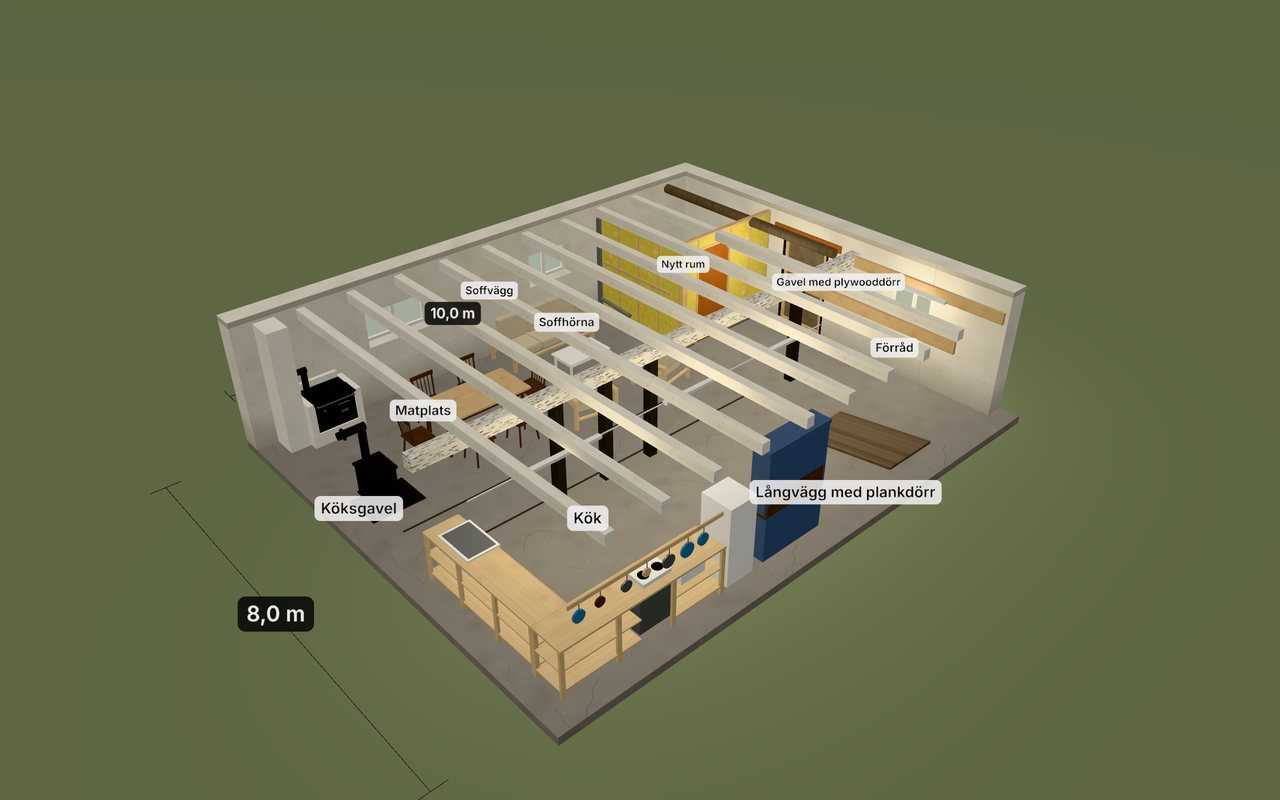
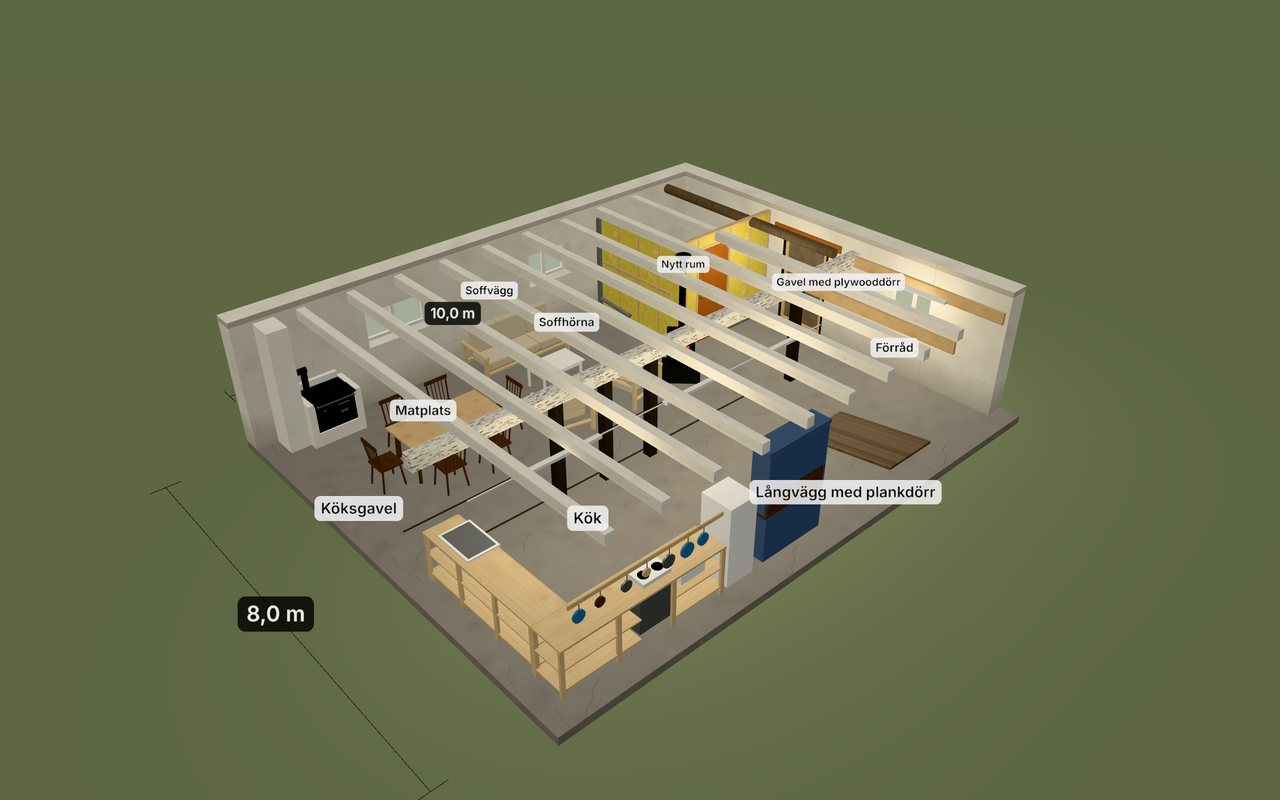
Flytta braskaminen till nya rummets ytterhörn
Kaminen står på diagonalen ut från hörnet, vänd mot rummet, med
rökröret rakt upp genom taket. Matgruppen står åter närmare köksgaveln
och soffgruppen är flyttad så att fåtöljerna går fria från kaminen.

Claude-Session: https://claude.ai/code/session_01Pv6CpKizXL3M9PiPypFNnz

Changed region(s): [[0.25, 0.4062, 0.4688, 0.6562], [0.4688, 0.4375, 0.5625, 0.5], [0.4375, 0.5, 0.4688, 0.5312]]

diff --git a/stallet/src/furniture.ts b/stallet/src/furniture.ts
@@ -249,7 +249,7 @@ function buildKitchen(m: Materials): THREE.Group {
 
 /* ------------------------------------------------------------- braskamin */
 
-/** Braskamin i gjutjärn på ben, med glasad lucka och rökrör bakåt ut genom väggen. */
+/** Braskamin i gjutjärn på ben, med glasad lucka och rökrör. */
 function buildStove(m: Materials): THREE.Group {
   const g = new THREE.Group();
   const iron = m.castIron;
@@ -276,12 +276,19 @@ function buildStove(m: Materials): THREE.Group {
     g.add(box(sx * w - 0.006, sx * w + 0.006, 0.3, 0.66, -d + 0.05, d - 0.05, iron));
   }
 
-  // Rökrör: rakt upp och sedan bakåt in i väggen.
   const pipeZ = -d + 0.1;
-  const bend = 1.55;
-  g.add(rod(v(0, 0.775, pipeZ), v(0, bend, pipeZ), 0.065, iron));
-  g.add(rod(v(0, bend, pipeZ + 0.065), v(0, bend, -d - 0.3), 0.065, iron));
-  g.add(rod(v(0, bend, -d - 0.2), v(0, bend, -d - 0.215), 0.1, iron));
+  if (D.furniture.stove.flue === 'ceiling') {
+    // Rökrör rakt upp genom taket, med en täckplåt mot takbrädorna.
+    const ceiling = D.ceiling.boards;
+    g.add(rod(v(0, 0.775, pipeZ), v(0, ceiling, pipeZ), 0.065, iron));
+    g.add(rod(v(0, ceiling - 0.012, pipeZ), v(0, ceiling, pipeZ), 0.15, iron));
+  } else {
+    // Rökrör rakt upp och sedan bakåt in i väggen.
+    const bend = 1.55;
+    g.add(rod(v(0, 0.775, pipeZ), v(0, bend, pipeZ), 0.065, iron));
+    g.add(rod(v(0, bend, pipeZ + 0.065), v(0, bend, -d - 0.3), 0.065, iron));
+    g.add(rod(v(0, bend, -d - 0.2), v(0, bend, -d - 0.215), 0.1, iron));
+  }
   return g;
 }
 
@@ -356,7 +363,15 @@ export function buildFurniture(m: Materials): THREE.Group {
   group.add(place(buildCoffeeTable(m), f.coffeeTable));
   for (const chair of f.armchairs) group.add(place(buildSeating(0.9, 1, m), chair));
   group.add(buildKitchen(m));
-  group.add(place(buildStove(m), f.stove));
+  // Kaminen står på diagonalen ut från nya rummets ytterhörn.
+  const reach = f.stove.cornerGap / Math.SQRT2;
+  group.add(
+    place(buildStove(m), {
+      x: D.newRoom.frontX - reach,
+      z: D.newRoom.depthZ + reach,
+      turn: f.stove.turn,
+    }),
+  );
   group.add(buildCookstove(m));
   return group;
 }

diff --git a/stallet/src/dimensions.ts b/stallet/src/dimensions.ts
@@ -125,15 +125,15 @@ export const storageNook = { fromX: 8.53, fromZ: beam.z + beam.width / 2, timber
  * (0 = framsidan mot +z, 90 = mot +x, 180 = mot -z, -90 = mot -x).
  */
 export const furniture = {
-  /** Matbord med sex stolar, en bit ut från köksgaveln så att kaminen får fritt framför sig. */
-  dining: { x: 2.8, z: 2.1, tableLength: 1.8, tableWidth: 0.9 },
+  /** Matbord med sex stolar vid köksgaveln, med arbetsyta kvar framför vedspisen i hörnet. */
+  dining: { x: 2.0, z: 2.4, tableLength: 1.8, tableWidth: 0.9 },
 
   /** Soffa mot soffväggen, soffbord och två fåtöljer vända mot soffan. */
-  sofa: { x: 5.5, z: 0.55, turn: 0, width: 2.05 },
-  coffeeTable: { x: 5.5, z: 1.75 },
+  sofa: { x: 4.85, z: 0.55, turn: 0, width: 2.05 },
+  coffeeTable: { x: 4.85, z: 1.75 },
   armchairs: [
-    { x: 4.6, z: 3.0, turn: 168 },
-    { x: 6.4, z: 3.05, turn: 192 },
+    { x: 4.05, z: 3.0, turn: 168 },
+    { x: 5.65, z: 3.05, turn: 192 },
   ],
 
   /** Köket: öppen bänk i vinkel i hörnet köksgavel / långvägg, sedan kyl och blått vitrinskåp. */
@@ -152,8 +152,12 @@ export const furniture = {
     hutchX: [3.85, 5.15],
   },
 
-  /** Braskamin i gjutjärn mot köksgaveln, mellan fönstret och den vita dörren. Röret går ut genom väggen. */
-  stove: { x: 0.42, z: 2.78, turn: 90 },
+  /**
+   * Braskamin i gjutjärn vid nya rummets ytterhörn, snett utåt mot rummet. `cornerGap` är
+   * avståndet från hörnet till kaminens mitt. Rökröret går rakt upp genom taket
+   * (`flue: 'wall'` drar det i stället bakåt genom en vägg).
+   */
+  stove: { cornerGap: 0.64, turn: -45, flue: 'ceiling' as 'ceiling' | 'wall' },
 
   /**
    * Husqvarna-vedspisen i hörnet köksgavel / soffvägg, upplyft till arbetshöjd och inmurad

diff --git a/stallet/README.md b/stallet/README.md
@@ -60,11 +60,11 @@ Förenklingar:
 
 Lägena står under `furniture` i `src/dimensions.ts` – mittpunkt på golvet och vridning i grader – så det går fort att flytta runt saker.
 
-- **Matgrupp** – bord med sex pinnstolar, en bit ut från köksgaveln.
+- **Matgrupp** – bord med sex pinnstolar vid köksgaveln, med arbetsyta kvar framför vedspisen.
 - **Soffgrupp** – tresitssoffa mot soffväggen, soffbord och två fåtöljer.
 - **Kök** – öppen furubänk i vinkel med ugn, kokplatta, mikro och diskho, redskapslist på väggen, kyl/frys och det blå vitrinskåpet.
 - **Vedspis** – Husqvarna-spisen i hörnet köksgavel / soffvägg, upplyft till arbetshöjd (häll på 0,86 m) och inmurad i vitputsat murverk, med murstock i hörnet upp till taket.
-- **Braskamin** – gjutjärnskamin mot köksgaveln, mellan fönstret och den vita dörren, med eldstadsplan och rökrör ut genom väggen. Väggbiten är bara cirka 0,65 m bred, så kaminen går nästan kant i kant med dörrkarmen och fönsternischen. Avstånden till brännbart material behöver kontrolleras innan den placeras så på riktigt.
+- **Braskamin** – gjutjärnskamin vid nya rummets ytterhörn, vänd snett ut mot rummet, med eldstadsplan och rökrör rakt upp genom taket. I modellen är det ungefär 0,4 m från kaminen till regelväggarna och 0,2 m från röret till närmaste takbjälke, så avstånden till brännbart material behöver kontrolleras innan den placeras så på riktigt.
 
 Murstocken och rökrörens dragning är antaganden – modellen vet inget om var det finns en rökkanal.
 
